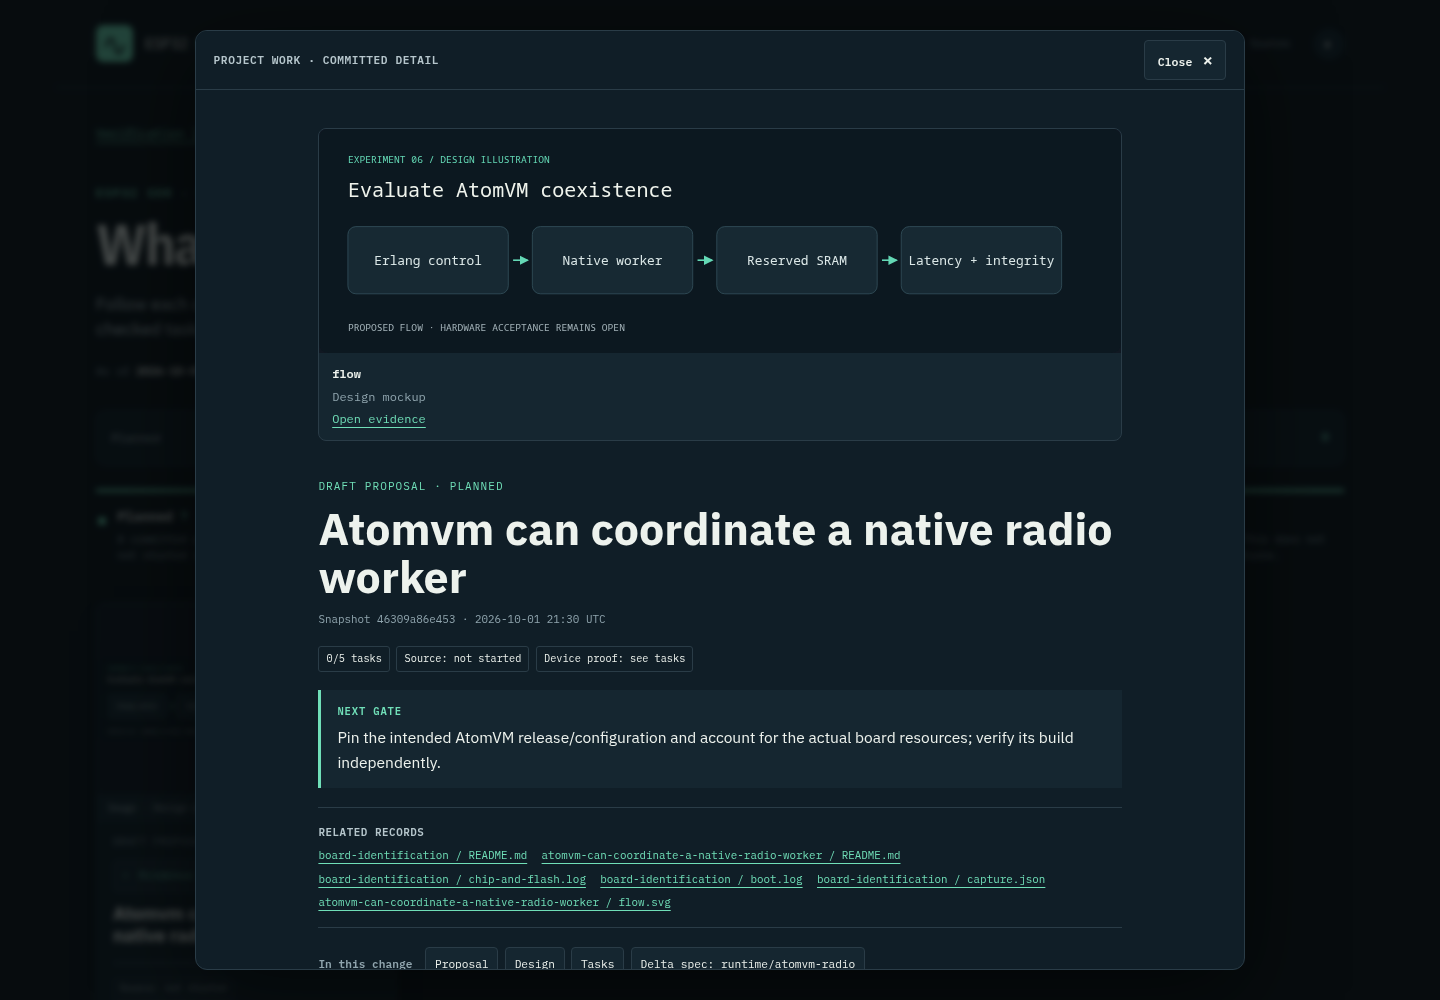
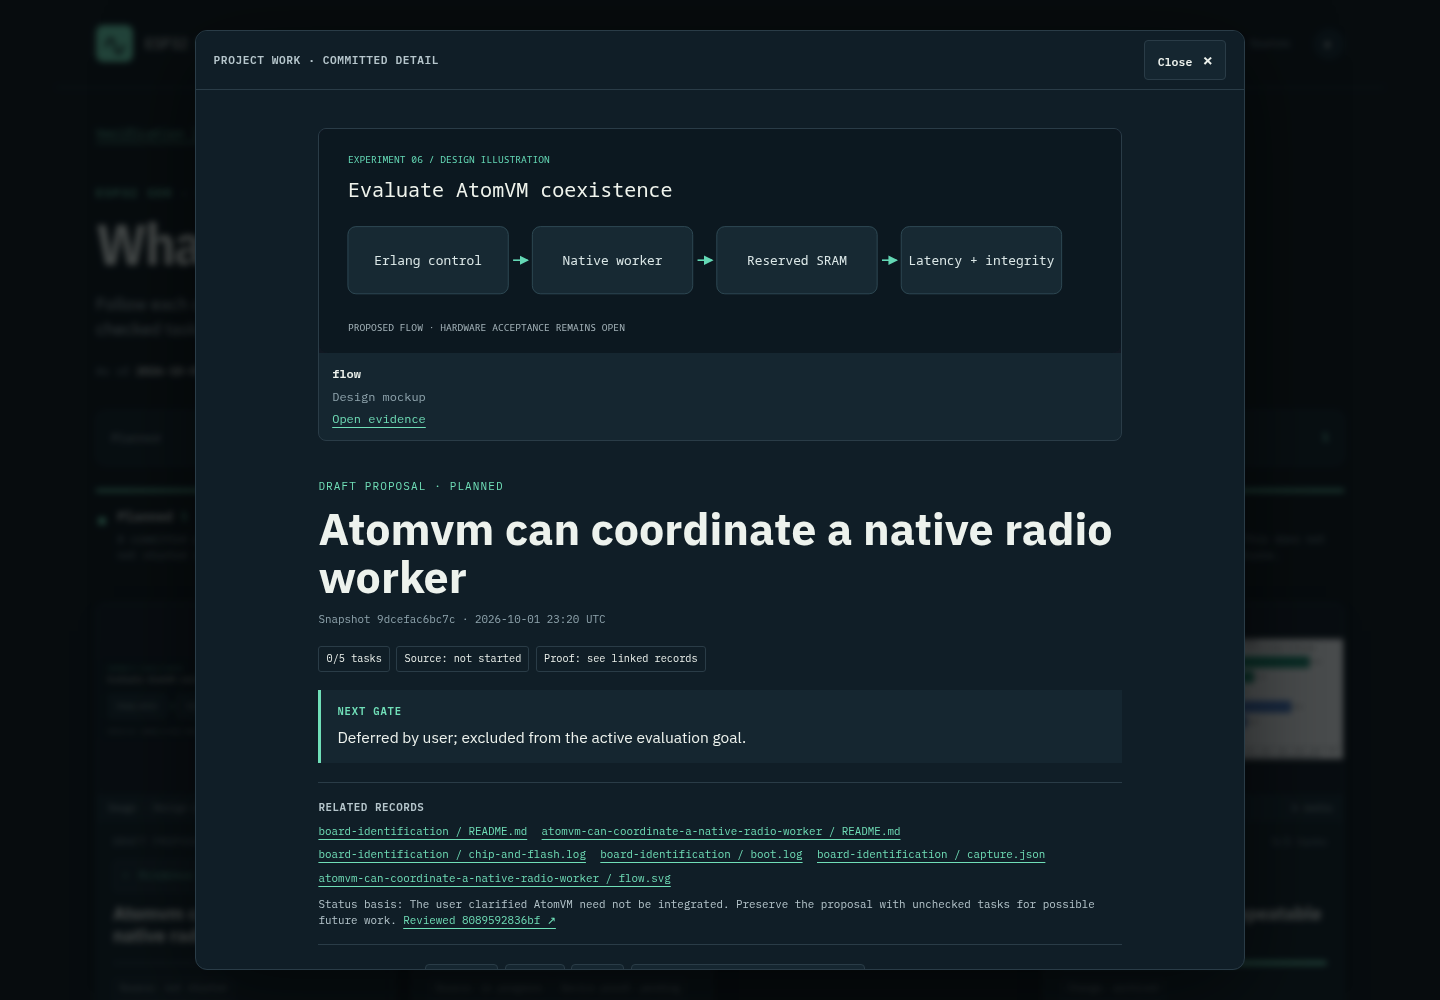
Record browser evidence for measured applications and stable archived proposal links

diff --git a/tests/site_browser.py b/tests/site_browser.py
@@ -65,7 +65,7 @@ def main():
         # Archival must preserve the original stable proposal URL.
         page.goto(base + "work/?work=the-board-captures-repeatable-radio-snapshots", wait_until="networkidle")
         page.locator("#work-detail-dialog[open]").wait_for()
-        assert "Archived" in page.locator("#work-detail-content").inner_text()
+        assert "archived" in page.locator("#work-detail-content").inner_text().lower()
         page.keyboard.press("Escape")
         page.goto(base + "evidence/docs-evidence-board-identification-readme-md/", wait_until="networkidle")
         page.get_by_role("link", name="Boot log", exact=True).click()

diff --git a/docs/evidence/site-preview/README.md b/docs/evidence/site-preview/README.md
@@ -2,9 +2,16 @@
 
 Evidence class: **Host capture**, not RF reception or FPGA measurement.
 
-Captured October 1, 2026 from the built site at source revision `46309a86e453` using Chromium and Playwright. [Metadata](capture.json) records the full revision, time and checks.
+Captured October 1, 2026 from the built site at source revision
+`9dcefac6bc7c8db2e19ddfeb185bbb008f563ea2` using Chromium and Playwright.
+[Metadata](capture.json) records the full revision, time and checks.
 
-Reproduce with `python3 tests/site_browser.py --url http://localhost:4321` after a successful local build and static preview. The check covers desktop/mobile navigation, overflow, calculator values, theme switching, seven proposal cards, deep links, image loading, dialog focus restoration and the boot-log evidence link. No page errors or local HTTP failures occurred.
+Reproduce with `python3 tests/site_browser.py --url http://localhost:4321` after
+a successful local build and static preview. Desktop/mobile navigation,
+overflow, calculator, theme, seven proposal cards, deep links, image loading,
+dialog focus and the boot-log link pass. The original stable snapshot URL
+still opens its archived record. Actual BLE and RDS evidence images load.
+There are no page errors or local HTTP failures.
 
 ![Desktop overview](overview-desktop.png)
 
@@ -14,4 +21,7 @@ Reproduce with `python3 tests/site_browser.py --url http://localhost:4321` after
 
 ![Design illustration gallery](design-gallery.png)
 
-The gallery displays an explicitly labeled design mockup. These images show the tracking website, not completed hardware experiments. All 34 hardware tasks remain open.
+The gallery screenshot displays an explicitly labeled design illustration.
+These images show the tracking website, rather than proving radio reception.
+The board separately records one accepted snapshot experiment, five active
+evaluations with physical gates, and AtomVM deferred by user.
